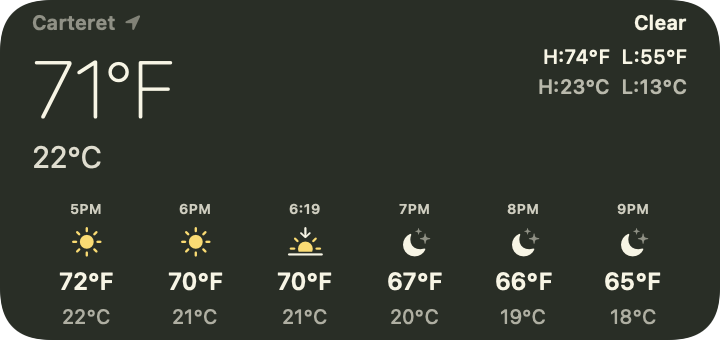
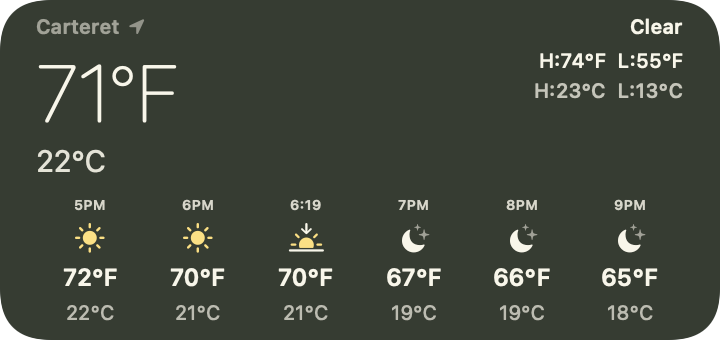
Give the medium widget a little more inset without shrinking the temperature.

diff --git a/Sources/Widget/WeatherCFWidget.swift b/Sources/Widget/WeatherCFWidget.swift
@@ -85,7 +85,6 @@ struct WeatherCFWidget: Widget {
     var body: some WidgetConfiguration {
         AppIntentConfiguration(kind: kind, intent: WeatherWidgetIntent.self, provider: WeatherProvider()) { entry in
             WeatherWidgetView(entry: entry)
-                .padding(16)
                 .containerBackground(for: .widget) {
                     Color(red: 0.16, green: 0.18, blue: 0.15)
                 }
@@ -115,11 +114,17 @@ struct WeatherWidgetView: View {
         } else if family == .accessoryRectangular {
             accessoryRectangular
         } else {
-            card
+            card.padding(contentPadding)
         }
         #else
-        card
+        card.padding(contentPadding)
         #endif
+    }
+
+    /// The medium family is short, so it needs a slightly larger inset
+    /// or the hourly row sits on the rim.
+    private var contentPadding: CGFloat {
+        family == .systemMedium ? 18 : 16
     }
 
     @ViewBuilder

diff --git a/Sources/Shared/WeatherCard.swift b/Sources/Shared/WeatherCard.swift
@@ -45,11 +45,11 @@ struct WeatherCard: View {
     }
 
     private var medium: some View {
-        VStack(alignment: .leading, spacing: compact ? 12 : 16) {
+        VStack(alignment: .leading, spacing: compact ? 8 : 16) {
             header
             hourlyRow(maxItems: 6)
         }
-        .frame(maxWidth: .infinity, alignment: .leading)
+        .frame(maxWidth: .infinity, maxHeight: .infinity, alignment: .center)
     }
 
     private var large: some View {
